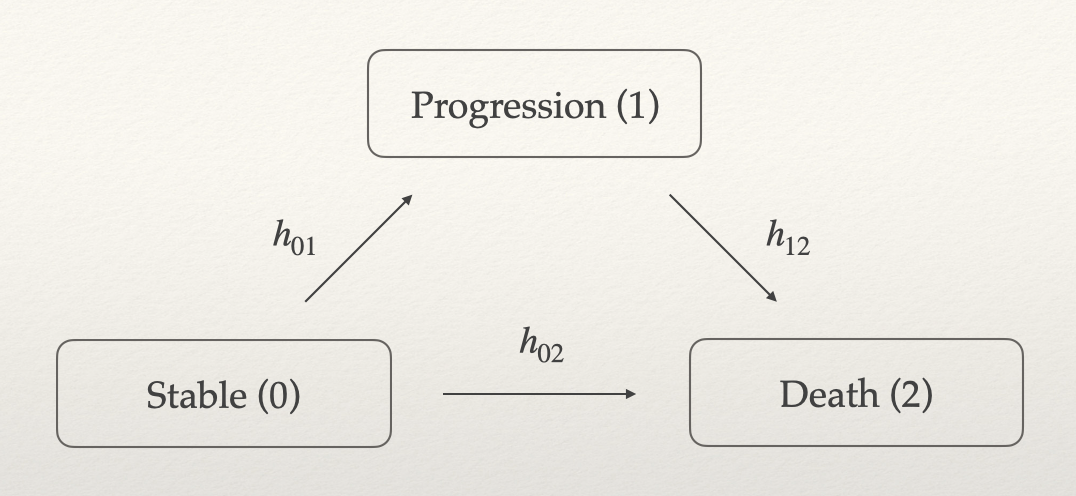
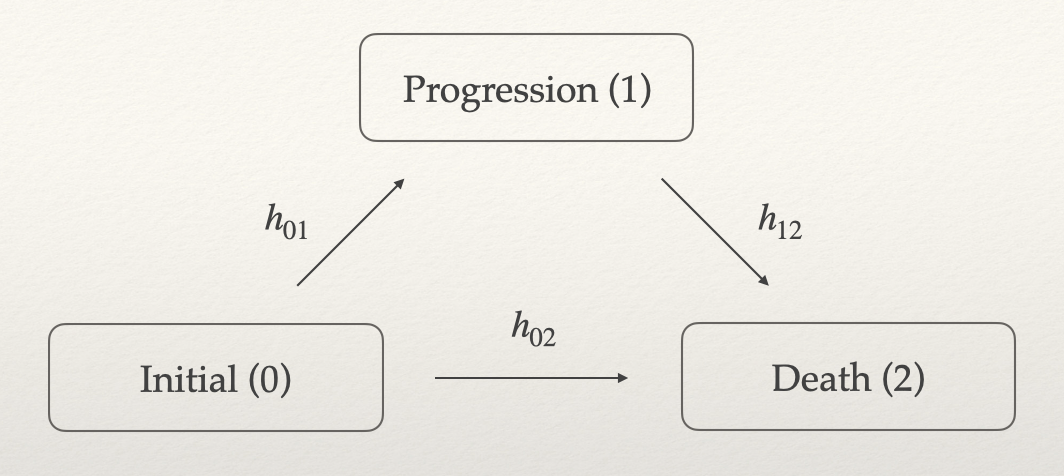
Deploying to gh-pages from @ zhangh12/TrialSimulator@5cac8e9e387b598f4637aed730dc885edfe97b5b 🚀

diff --git a/articles/simulatePfsAndOs.html b/articles/simulatePfsAndOs.html
@@ -90,9 +90,9 @@ latent variables or copula-based approaches, making it difficult to
 interpret and specify model parameters in practical settings. In this
 vignette, we do not aim to provide a comprehensive review of existing
 methods. Instead, we focus on a three-state illness-death model
-consisting of the following states: stable (initial, 0), progression
-(1), and death (2). For more details, refer to Meller, Beyersmann, and
-Rufibach (2019).</p>
+consisting of the following states: initial (0), progression (1), and
+death (2). For more details, refer to Meller, Beyersmann, and Rufibach
+(2019).</p>
 <p><img src="three_state_ill_death_model.png" alt="A three-state ill-death model for PFS and OS.
 " width="80%"></p>
 <p>We consider the simplest case of the illness-death model, where all
